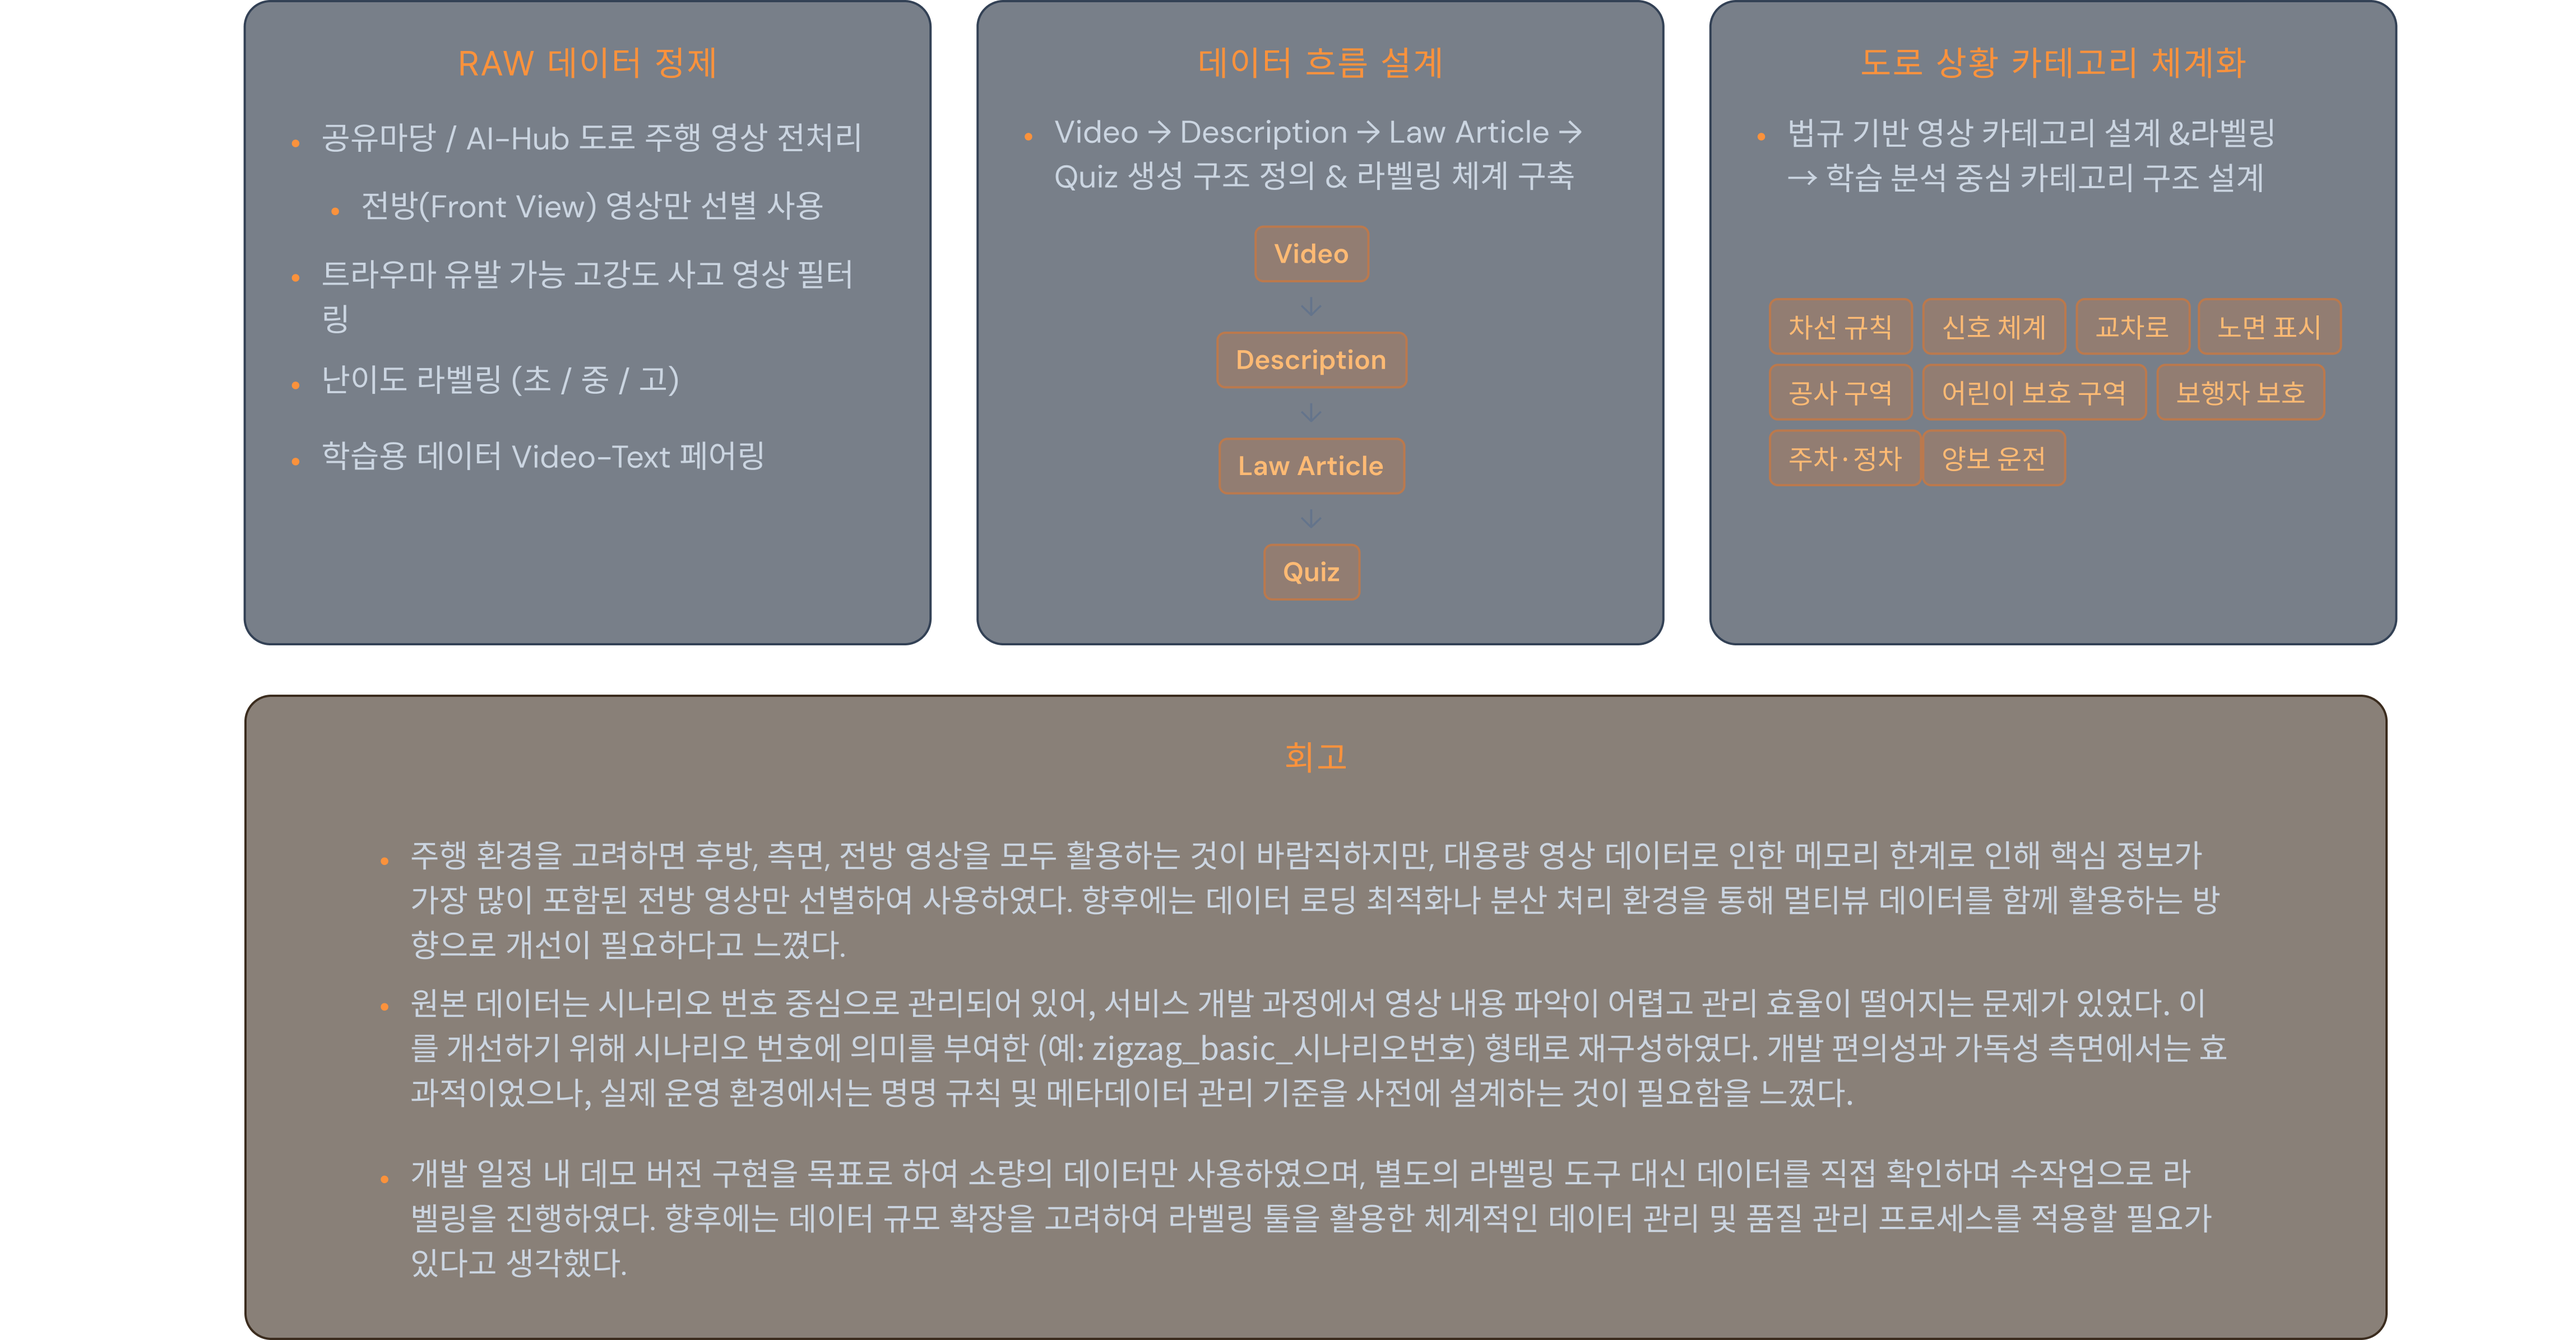
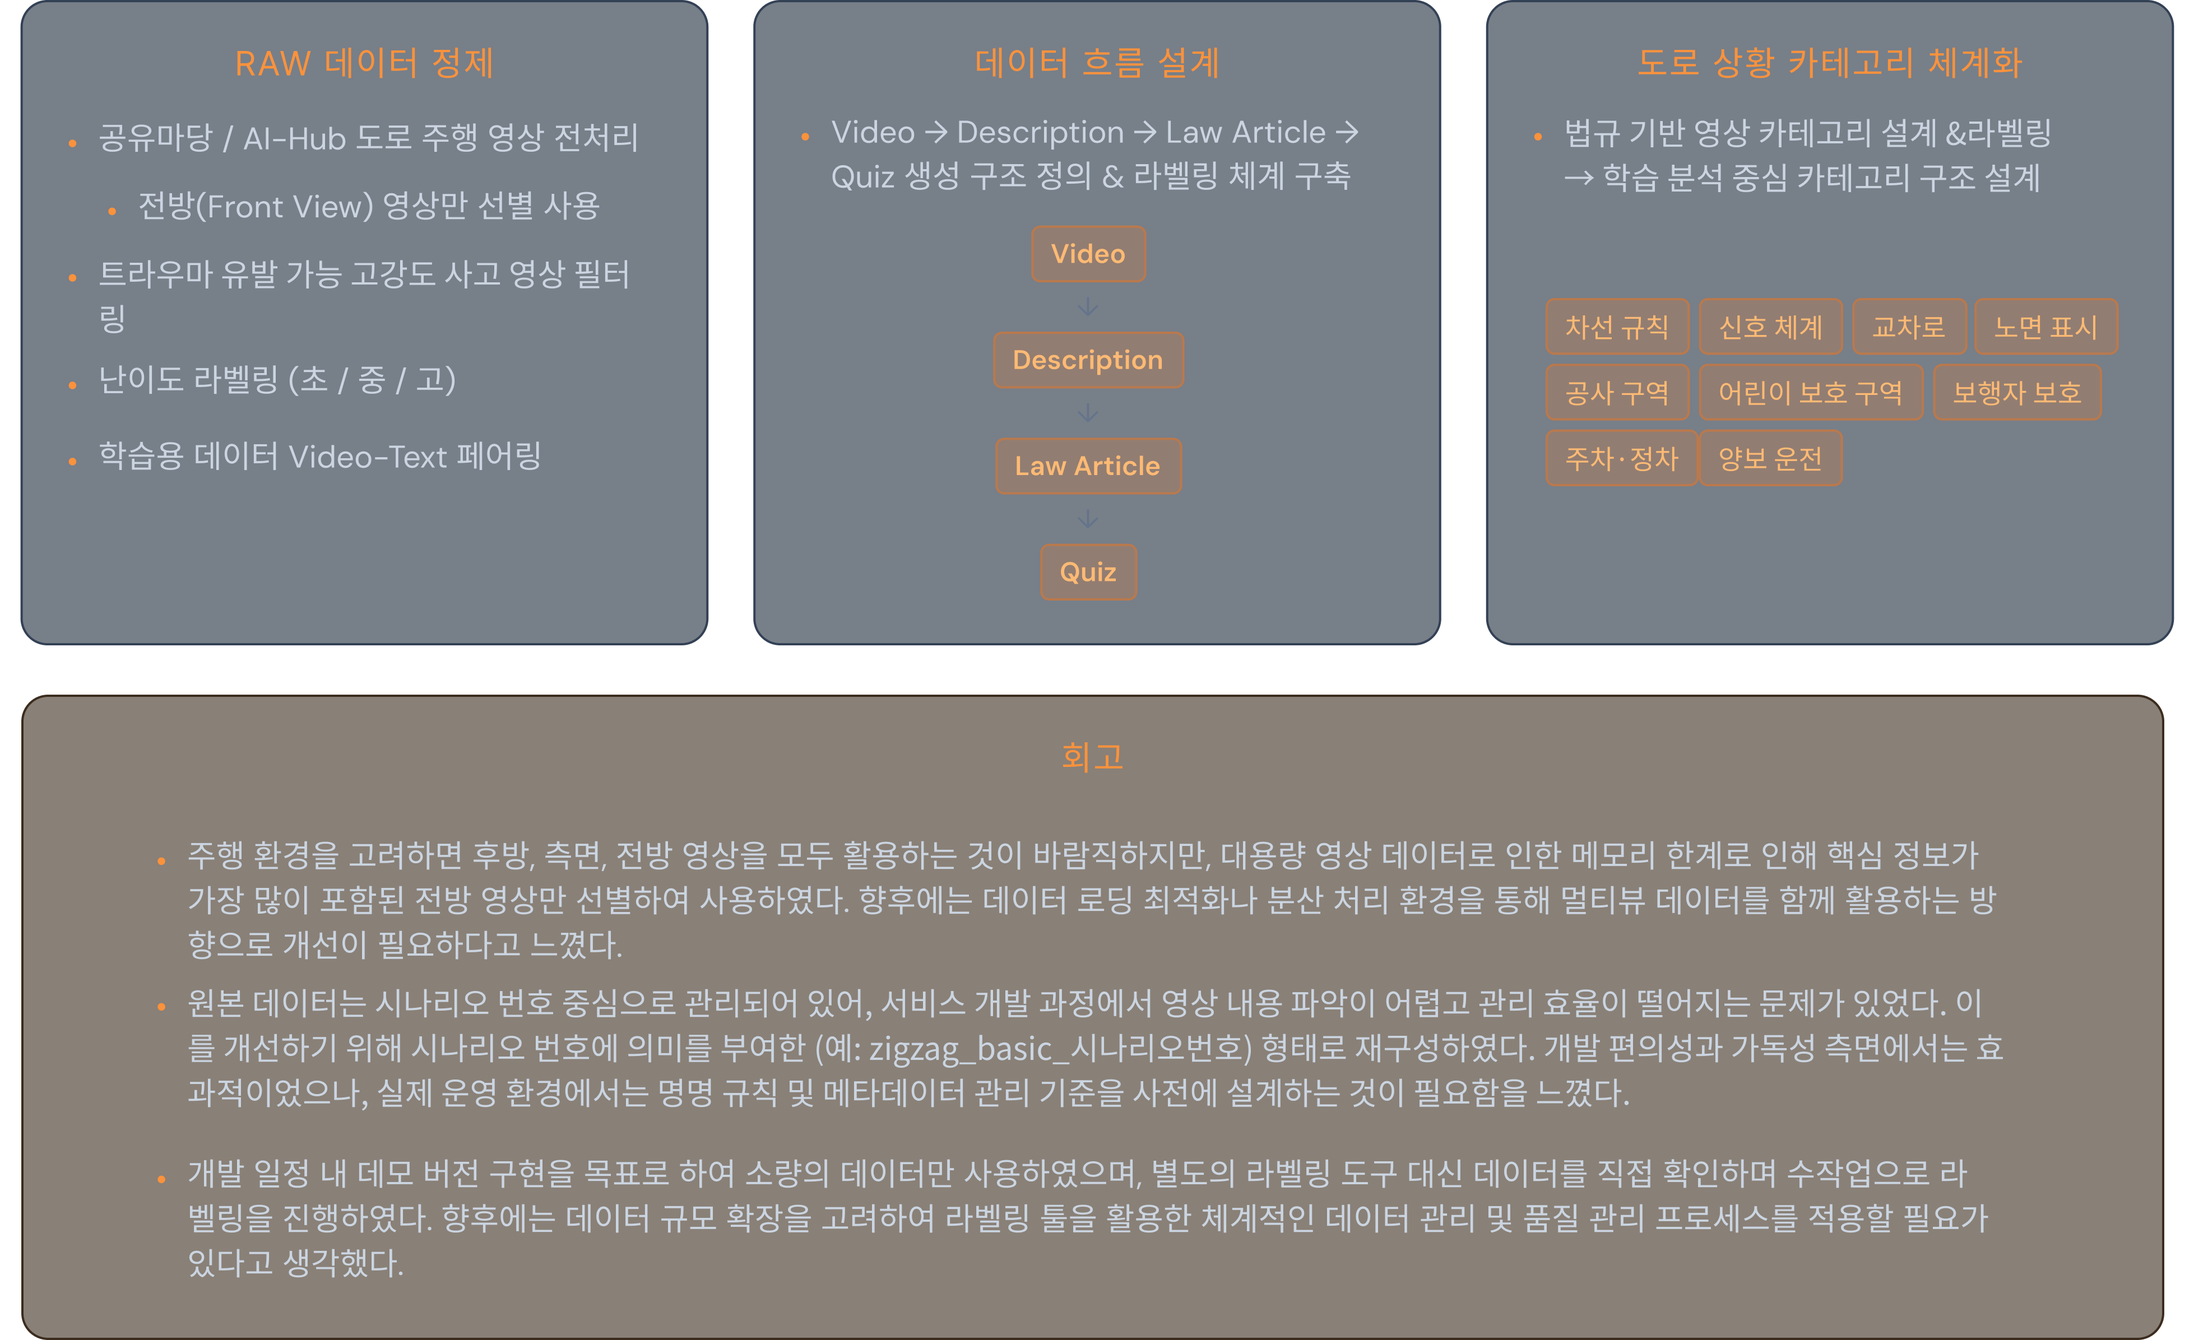
나의 역할 >데이터전처리 (2026-02-22 19:27:17)

diff --git a/projects/ai-go/index.html b/projects/ai-go/index.html
@@ -195,11 +195,11 @@
       <section class="section section-architecture section-role" id="category-role" data-category="role">
         <div class="role-inner">
           <div style="opacity: 1; transform: none;">
-            <h2 class="text-4xl font-black mb-[50px] text-center mt-[50px]">개발 Flow & 나의 역할</h2>
+            <h2 class="text-4xl font-black mb-[50px] text-center mt-[100px]">개발 Flow & 나의 역할</h2>
             <div class="structure-box">
               <img src="../../images/서비스로직_나의 역할.png" alt="서비스 로직 및 나의 역할" class="structure-box-diagram structure-box-diagram--service-logic" />
             </div>
-            <h2 class="text-4xl font-black mb-0 text-center mt-[500px]">나의 역할 상세</h2>
+            <h2 class="text-4xl font-black mb-0 text-center mt-[200px]">나의 역할 상세</h2>
             <p class="text-center text-slate-400 mt-[20px] mb-0">My Contribution</p>
             <p class="text-center text-blue-400 font-bold text-xl" style="margin-bottom: 30px">AI Learning System Architect</p>
             <div class="space-y-[50px]">
@@ -215,59 +215,7 @@
                     <p class="text-sm text-slate-400 mt-0.5 text-left">공공 데이터 정제 · 흐름 설계 · 카테고리 체계화</p>
                   </div>
                 </div>
-                <div class="grid grid-cols-1 md:grid-cols-3 gap-5 pl-0 md:pl-4">
-                  <div class="bg-slate-800/60 border border-slate-700 rounded-xl p-5">
-                    <p class="text-xs font-bold text-orange-400 uppercase tracking-wider mb-3">공공 데이터 정제</p>
-                    <ul class="space-y-2 text-left">
-                      <li class="flex items-start gap-2 text-slate-300 text-sm"><span class="text-orange-400 mt-0.5 shrink-0">•</span><span>공유마당 / AI-Hub 도로 주행 영상 정제</span></li>
-                      <li class="flex items-start gap-2 text-slate-300 text-sm"><span class="text-orange-400 mt-0.5 shrink-0">•</span><span>전방(Front View) 영상만 선별 사용</span></li>
-                      <li class="flex items-start gap-2 text-slate-300 text-sm"><span class="text-orange-400 mt-0.5 shrink-0">•</span><span>트라우마 유발 가능 고강도 사고 영상 필터링</span></li>
-                      <li class="flex items-start gap-2 text-slate-300 text-sm"><span class="text-orange-400 mt-0.5 shrink-0">•</span><span>난이도 라벨링 (초 / 중 / 고)</span></li>
-                    </ul>
-                    <div class="mt-3 w-full flex items-center justify-center gap-3 flex-wrap">
-                      <div class="flex items-center gap-3">
-                        <img src="../../images/공유마당 로고.png" alt="공유마당" class="h-12 object-contain rounded" />
-                        <img src="../../images/ai_hub 로고.png" alt="AI Hub" class="h-12 w-[90px] object-contain rounded" />
-                      </div>
-                    </div>
-                  </div>
-                  <div class="bg-slate-800/60 border border-slate-700 rounded-xl p-5">
-                    <p class="text-xs font-bold text-orange-400 uppercase tracking-wider mb-3">데이터 흐름 설계</p>
-                    <ul class="space-y-2 text-left">
-                      <li class="flex items-start gap-2 text-slate-300 text-sm"><span class="text-orange-400 mt-0.5 shrink-0">•</span><span>Video → Description → Law Article → Quiz 생성 구조 정의</span></li>
-                      <li class="flex items-start gap-2 text-slate-300 text-sm"><span class="text-orange-400 mt-0.5 shrink-0">•</span><span>단계별 메타데이터 설계 및 라벨링 체계 구축</span></li>
-                    </ul>
-                    <div class="mt-5 flex flex-row flex-wrap justify-start items-center gap-1 text-left w-full">
-                      <span class="px-2 py-1 bg-orange-500/20 border border-orange-500/40 rounded text-xs text-orange-300 font-semibold">Video</span>
-                      <span class="text-slate-500 text-xs -rotate-90">↓</span>
-                      <span class="px-2 py-1 bg-orange-500/20 border border-orange-500/40 rounded text-xs text-orange-300 font-semibold">Description</span>
-                      <span class="text-slate-500 text-xs">↓</span>
-                      <span class="px-2 py-1 bg-orange-500/20 border border-orange-500/40 rounded text-xs text-orange-300 font-semibold">Law Article</span>
-                      <span class="text-slate-500 text-xs">↓</span>
-                      <span class="px-2 py-1 bg-orange-500/20 border border-orange-500/40 rounded text-xs text-orange-300 font-semibold">Quiz</span>
-                    </div>
-                  </div>
-                  <div class="bg-slate-800/60 border border-slate-700 rounded-xl p-5">
-                    <p class="text-xs font-bold text-orange-400 uppercase tracking-wider mb-3">도로 상황 카테고리 체계화</p>
-                    <ul class="space-y-1.5 text-left">
-                      <li class="flex items-start gap-2 text-slate-300 text-sm"><span class="text-orange-400 mt-0.5 shrink-0">•</span><span>법규 기반 재분류 체계 설계</span></li>
-                    </ul>
-                    <div class="mt-10 flex flex-row flex-wrap justify-start items-center gap-1 text-left w-full">
-                      <span class="px-2 py-1 bg-orange-500/20 border border-orange-500/40 rounded text-xs text-orange-300 font-semibold">차선 규칙</span>
-                      <span class="px-2 py-1 bg-orange-500/20 border border-orange-500/40 rounded text-xs text-orange-300 font-semibold">신호 체계</span>
-                      <span class="px-2 py-1 bg-orange-500/20 border border-orange-500/40 rounded text-xs text-orange-300 font-semibold">교차로</span>
-                      <span class="px-2 py-1 bg-orange-500/20 border border-orange-500/40 rounded text-xs text-orange-300 font-semibold">노면 표시</span>
-                      <span class="px-2 py-1 bg-orange-500/20 border border-orange-500/40 rounded text-xs text-orange-300 font-semibold">공사 구역</span>
-                      <span class="px-2 py-1 bg-orange-500/20 border border-orange-500/40 rounded text-xs text-orange-300 font-semibold">어린이 보호 구역</span>
-                      <span class="px-2 py-1 bg-orange-500/20 border border-orange-500/40 rounded text-xs text-orange-300 font-semibold">보행자 보호</span>
-                      <span class="px-2 py-1 bg-orange-500/20 border border-orange-500/40 rounded text-xs text-orange-300 font-semibold">주차·정차</span>
-                      <span class="px-2 py-1 bg-orange-500/20 border border-orange-500/40 rounded text-xs text-orange-300 font-semibold">양보 운전</span>
-                    </div>
-                    <div class="mt-4">
-                      <p class="text-xs text-orange-300 font-semibold">-> 학습 분석 중심 카테고리 구조 설계</p>
-                    </div>
-                  </div>
-                </div>
+                <img src="../../images/데이터 설계 및 전처리.png" alt="데이터 설계 및 전처리" class="w-full rounded-xl" />
               </div>
               <div class="bg-slate-900/60 backdrop-blur-xl border border-slate-800 rounded-2xl p-8 hover:border-purple-500/40 transition-all" style="opacity: 1; transform: none;">
                 <div class="flex items-center gap-4 mb-6">
@@ -277,7 +225,7 @@
                     </svg>
                   </div>
                   <div>
-                    <h3 class="font-black text-xl text-white">VLM 모델 테스트 :  영상 -> 텍스트 변환</h3>
+                    <h3 class="font-black text-xl text-white">VLM 모델 분담 실험험 :  영상 -> 텍스트 변환</h3>
                     <p class="text-sm text-slate-400 mt-0.5 text-left">모델 실험 · 한계 분석 · 프롬프트 엔지니어링</p>
                   </div>
                 </div>
